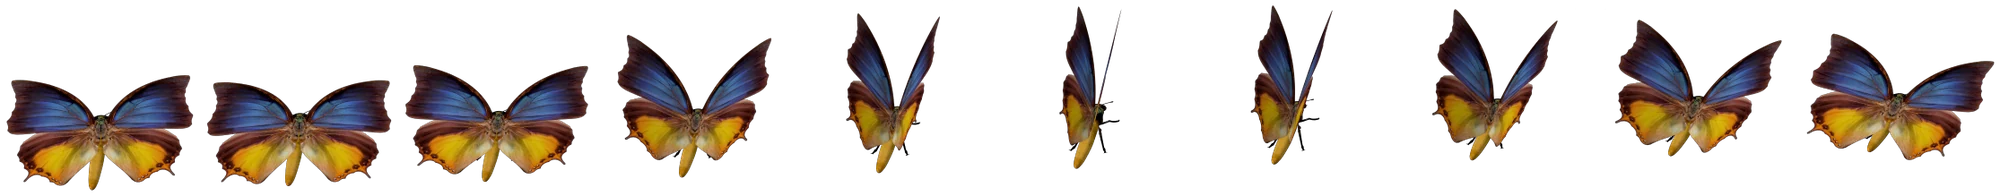
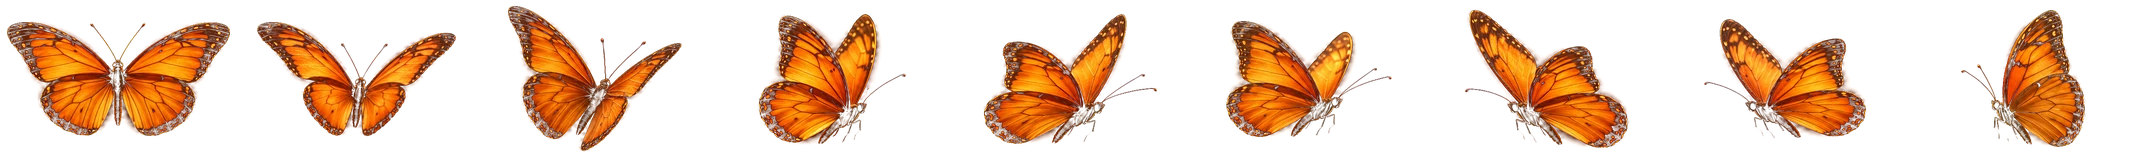
Hero: new orange butterfly with front/side poses; stays with the cursor when it rests
Claude-Session: https://claude.ai/code/session_015sKVjkfE5PUpmXATrUziLx

diff --git a/index.html b/index.html
@@ -89,10 +89,10 @@ h2.title{font-family:var(--display);font-size:clamp(32px,4.4vw,56px);font-weight
 /* robot visual: eyes follow the cursor */
 .bot{position:absolute;z-index:1;top:0;bottom:0;right:0;width:68%;-webkit-mask-image:linear-gradient(90deg,transparent 0,#000 26%);mask-image:linear-gradient(90deg,transparent 0,#000 26%)}
 .bot svg{display:block;width:100%;height:100%}
-.bfly{position:absolute;left:0;top:0;z-index:3;width:104px;height:102px;margin:-51px 0 0 -52px;pointer-events:none;will-change:transform;filter:drop-shadow(0 12px 14px rgba(0,0,0,.45));opacity:0;transition:opacity .6s}
+.bfly{position:absolute;left:0;top:0;z-index:3;width:132px;height:88px;margin:-44px 0 0 -66px;pointer-events:none;will-change:transform;filter:drop-shadow(0 0 14px rgba(242,68,5,.45)) drop-shadow(0 14px 16px rgba(0,0,0,.5));opacity:0;transition:opacity .6s}
 .bfly.on{opacity:1}
-.bfly i{display:block;width:100%;height:100%;background:url(img/butterfly.webp) 0 0/1000% 100% no-repeat}
-@media (max-width:860px){.bfly{width:64px;height:62px;margin:-31px 0 0 -32px}}
+.bfly i{display:block;width:100%;height:100%;background:url(img/butterfly.webp) 0 0/900% 100% no-repeat}
+@media (max-width:860px){.bfly{width:96px;height:64px;margin:-32px 0 0 -48px}}
 @media (prefers-reduced-motion:reduce){.bfly{display:none}}
 .bot .eye-glow{filter:url(#eyeBlur);opacity:.55;mix-blend-mode:screen}
 .hero .scroll{position:absolute;z-index:2;left:50%;bottom:22px;transform:translateX(-50%);width:26px;height:42px;border:1.5px solid rgba(253,253,252,.35);border-radius:14px;display:none}
@@ -501,31 +501,35 @@ setTimeout(() => $$('.reveal').forEach(el => el.classList.add('in')), 4000);
 /* hero glow follows the cursor */
 const hero = $('#hero');
 
-/* hero butterfly: follows the cursor inside the hero, wanders when idle */
+/* hero butterfly: follows the cursor inside the hero and stays with it when the cursor rests */
 (() => {
   const el = $('#bfly'), spr = el && el.firstElementChild; if (!el || reduce) return;
-  const FR = 10; let x = 0, y = 0, tx = 0, ty = 0, vx = 0, vy = 0, f = 0, inside = false, lastMove = 0, t0 = performance.now(), init = false;
+  const N = 9, CYC = {front: [0, 1, 2, 1], right: [3, 4, 5, 4], left: [6, 7, 8, 7]};
+  let x = 0, y = 0, tx = 0, ty = 0, vx = 0, vy = 0, ph = 0, face = 'front', faceHold = 0, init = false;
+  const OX = 40, OY = -36;
   const home = () => { const w = hero.clientWidth, h = hero.clientHeight, small = w < 861; return [w * (small ? .72 : .62), h * (small ? .14 : .22)]; };
-  hero.addEventListener('pointermove', e => { const r = hero.getBoundingClientRect(); tx = e.clientX - r.left + 34; ty = e.clientY - r.top - 30; inside = true; lastMove = performance.now(); }, {passive: true});
-  hero.addEventListener('pointerdown', e => { const r = hero.getBoundingClientRect(); tx = e.clientX - r.left + 34; ty = e.clientY - r.top - 30; inside = true; lastMove = performance.now(); }, {passive: true});
-  hero.addEventListener('pointerleave', () => { inside = false; });
-  let prev = performance.now();
+  const setT = e => { const r = hero.getBoundingClientRect(); tx = e.clientX - r.left + OX; ty = e.clientY - r.top + OY; };
+  hero.addEventListener('pointermove', setT, {passive: true});
+  hero.addEventListener('pointerdown', setT, {passive: true});
+  let prev = performance.now(); const t0 = prev;
   const step = now => {
     const dt = Math.min(50, now - prev) / 16.67; prev = now; const t = (now - t0) / 1000;
     const w = hero.clientWidth, h = hero.clientHeight;
-    if (!init) { [x, y] = home(); tx = x; ty = y; init = true; el.classList.add('on'); }
-    let gx = tx, gy = ty;
-    if (!inside || now - lastMove > 2500) { const [hx, hy] = home(); gx = hx + Math.sin(t * .55) * Math.min(160, w * .2) + Math.sin(t * 1.7) * 18; gy = hy + Math.sin(t * .9) * 50 + Math.cos(t * 2.3) * 10; }
-    else { gx += Math.sin(t * 2.1) * 10; gy += Math.cos(t * 2.7) * 8; }
-    gx = Math.max(40, Math.min(w - 40, gx)); gy = Math.max(40, Math.min(h - 40, gy));
-    const ax = (gx - x) * .0035, ay = (gy - y) * .0035;
-    vx = (vx + ax * dt * 16) * Math.pow(.86, dt); vy = (vy + ay * dt * 16) * Math.pow(.86, dt);
+    if (!init) { [x, y] = home(); [tx, ty] = [x, y]; init = true; el.classList.add('on'); }
+    // hover gently around the target; never wanders off
+    let gx = tx + Math.sin(t * 1.9) * 9 + Math.sin(t * 3.7) * 3, gy = ty + Math.cos(t * 2.4) * 7;
+    gx = Math.max(50, Math.min(w - 50, gx)); gy = Math.max(40, Math.min(h - 40, gy));
+    vx = (vx + (gx - x) * .0055 * dt * 16) * Math.pow(.84, dt); vy = (vy + (gy - y) * .0055 * dt * 16) * Math.pow(.84, dt);
     x += vx * dt; y += vy * dt;
     const sp = Math.hypot(vx, vy);
-    f = (f + dt * (.42 + Math.min(.5, sp * .06))) % FR;
-    spr.style.backgroundPosition = `${Math.floor(f) * 100 / (FR - 1)}% 0`;
-    const tilt = Math.max(-28, Math.min(28, vx * 3.2)), bob = Math.sin(t * 7) * 2;
-    el.style.transform = `translate(${x.toFixed(1)}px, ${(y + bob).toFixed(1)}px) rotate(${tilt.toFixed(1)}deg)`;
+    // pick the view: side profile when flying sideways, open wings when hovering
+    const want = Math.abs(vx) > 2.2 && Math.abs(vx) > Math.abs(vy) * .8 ? (vx > 0 ? 'right' : 'left') : 'front';
+    if (want !== face && now > faceHold) { face = want; faceHold = now + 260; }
+    ph = (ph + dt * (.2 + Math.min(.28, sp * .03))) % 4;
+    const fr = CYC[face][Math.floor(ph)];
+    spr.style.backgroundPosition = `${fr * 100 / (N - 1)}% 0`;
+    const tilt = face === 'front' ? Math.max(-18, Math.min(18, vx * 2.4)) : Math.max(-14, Math.min(14, vy * 2));
+    el.style.transform = `translate(${x.toFixed(1)}px, ${y.toFixed(1)}px) rotate(${tilt.toFixed(1)}deg)`;
     const r = hero.getBoundingClientRect(); window.__bfly = {x: r.left + x, y: r.top + y, on: r.bottom > 0 && r.top < innerHeight};
     requestAnimationFrame(step);
   };
